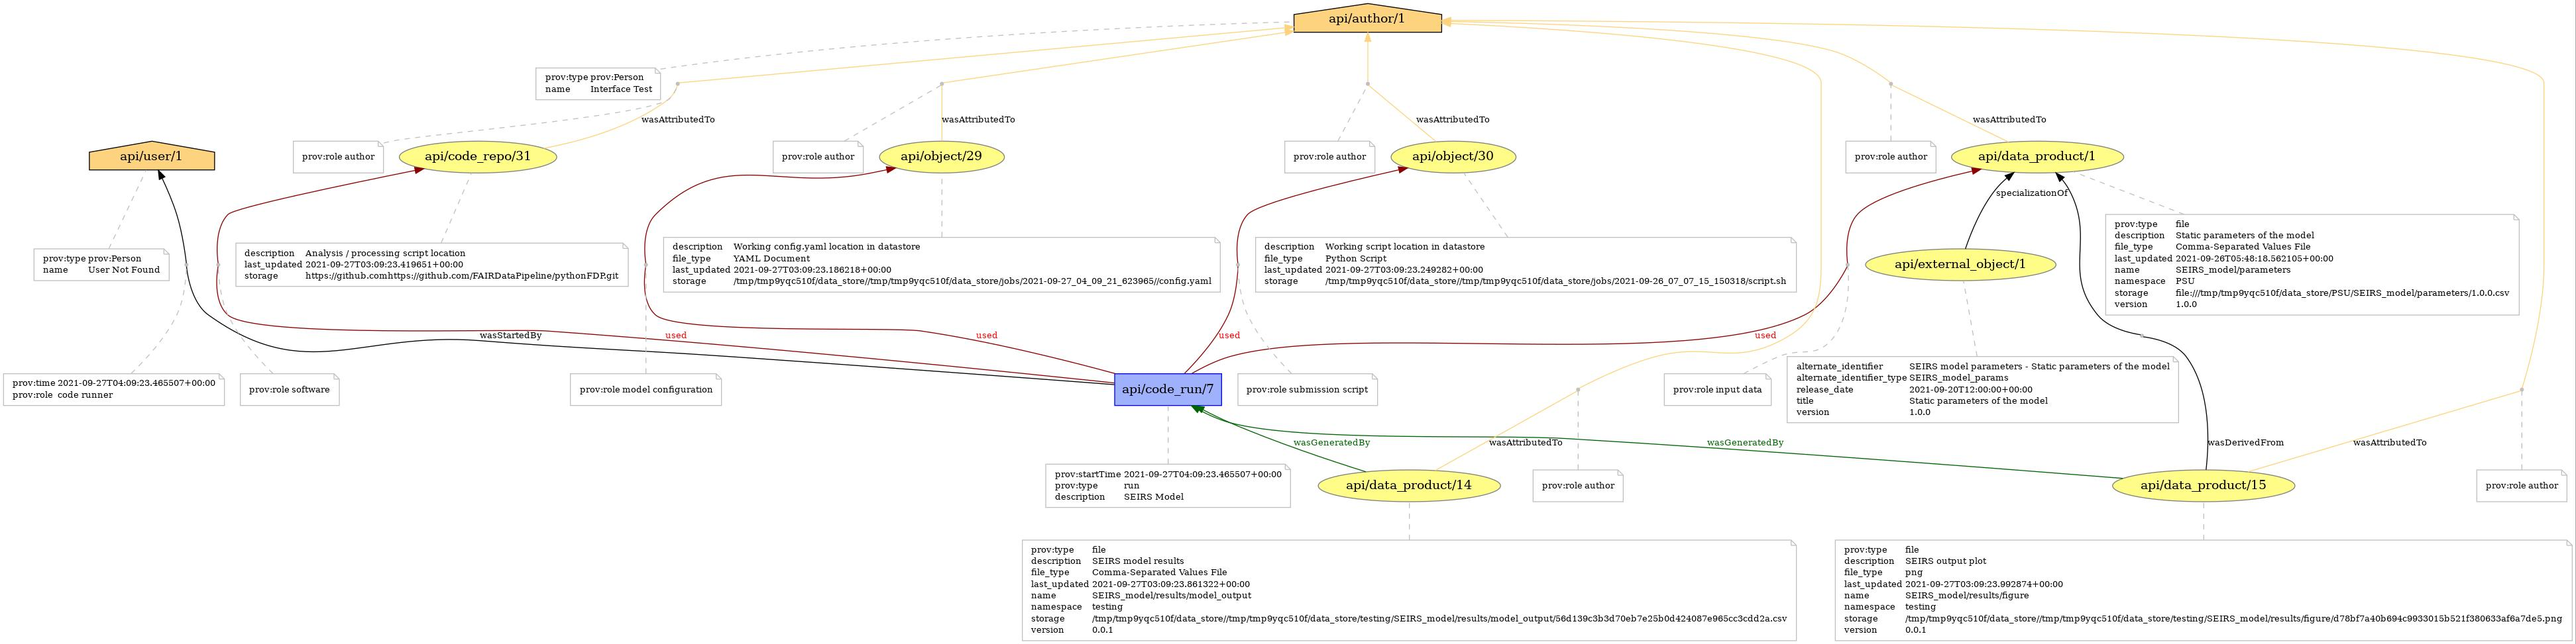
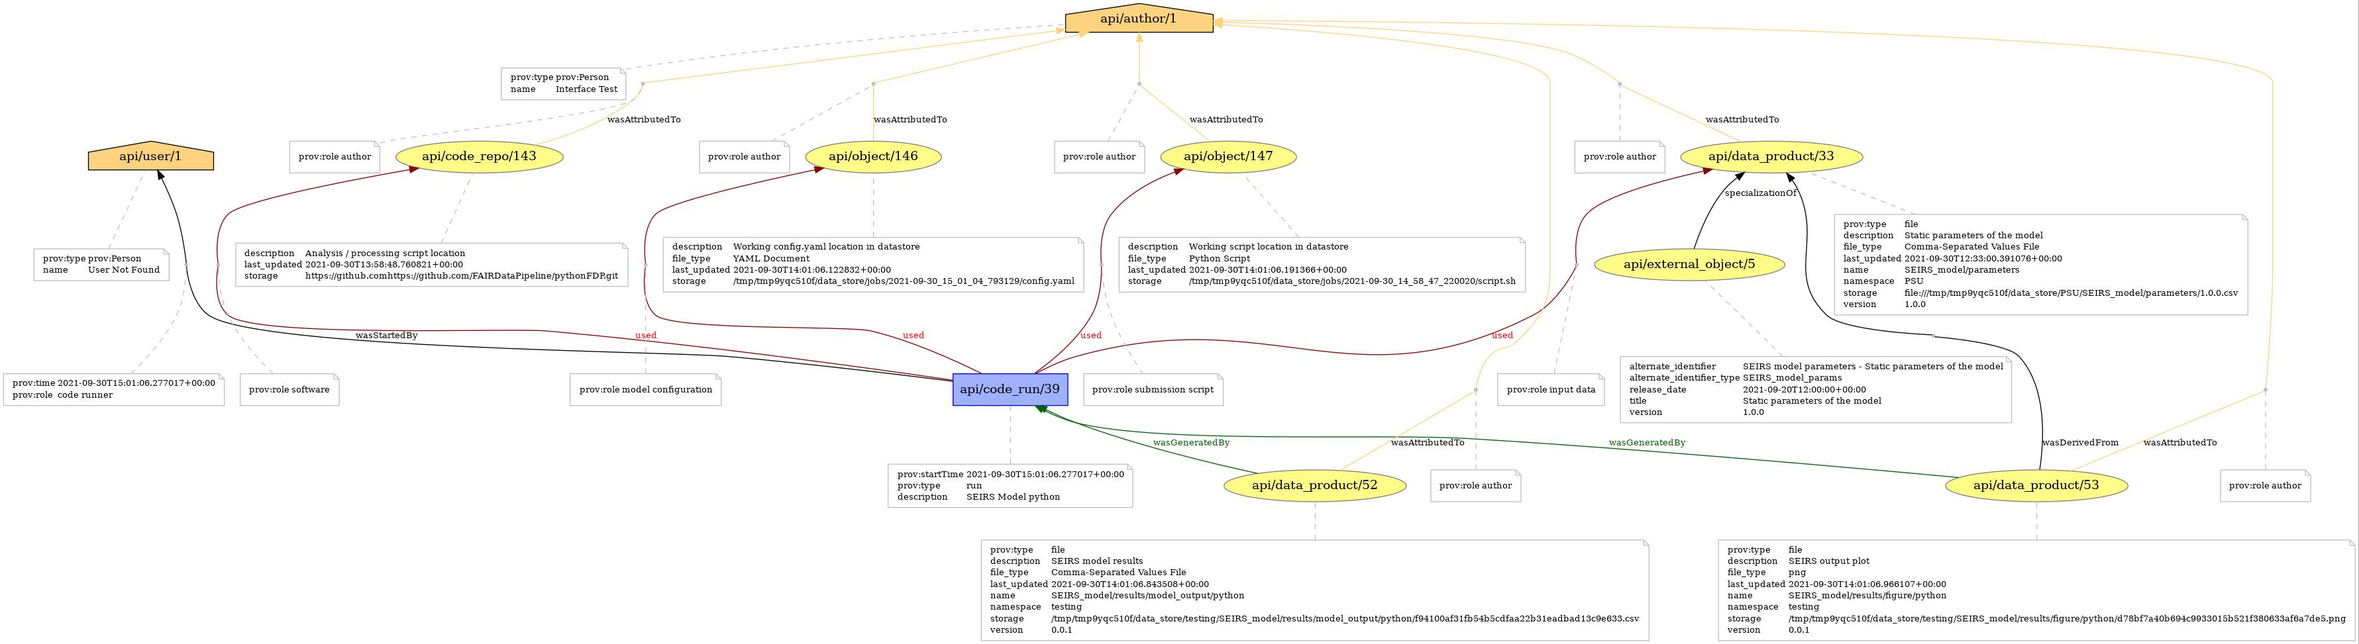
Update data_product names and provenance report

diff --git a/src/org/fairdatapipeline/simpleModel/ext/SEIRSModelRun.py b/src/org/fairdatapipeline/simpleModel/ext/SEIRSModelRun.py
@@ -10,7 +10,7 @@ handle = pipeline.initialise(token, config, script)
 
 initial_parameters = pipeline.link_read(handle, 'SEIRS_model/parameters')
 model_output = pipeline.link_write(handle, 'SEIRS_model/results/model_output/python')
-model_plot = pipeline.link_write(handle, 'SEIRS_model/results/figure')
+model_plot = pipeline.link_write(handle, 'SEIRS_model/results/figure/python')
 
 # Model Code
 states = {
